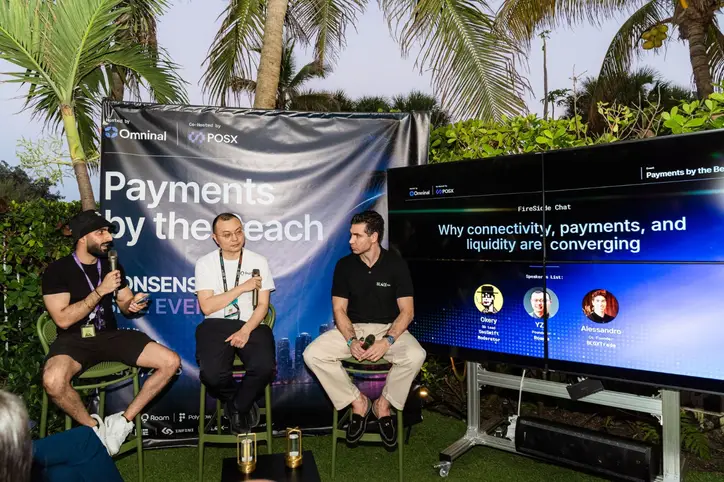
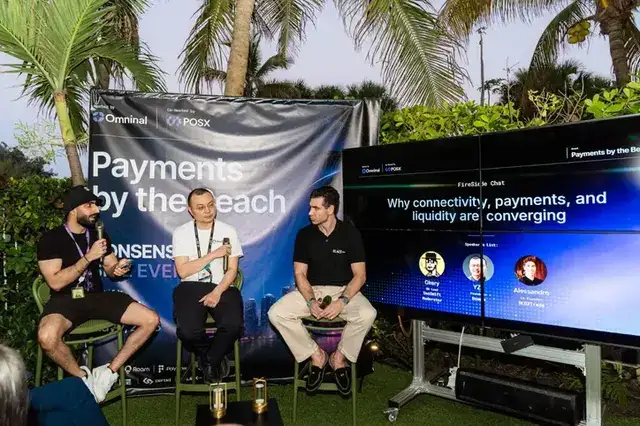
perf: resolve render-blocking CSS by inlining critical styles and compressing blog-02.webp to display size

diff --git a/news.html b/news.html
@@ -12,7 +12,96 @@
   <link rel="preload" href="./assets/fonts/Morganite-Black.ttf" as="font" type="font/ttf" crossorigin>
   <link rel="preload" href="https://fonts.googleapis.com/css2?family=Inter:wght@300;400;500;600;700&display=swap" as="style" onload="this.onload=null;this.rel='stylesheet'">
   <noscript><link rel="stylesheet" href="https://fonts.googleapis.com/css2?family=Inter:wght@300;400;500;600;700&display=swap"></noscript>
-  <link rel="stylesheet" href="./styles/main.css">
+  <style>
+    /* Critical Inline CSS */
+    @font-face {
+      font-family: 'Morganite';
+      src: url('./assets/fonts/Morganite-Black.ttf') format('truetype');
+      font-weight: 900;
+      font-style: normal;
+      font-display: swap;
+    }
+    @font-face {
+      font-family: 'Morganite';
+      src: url('./assets/fonts/Morganite-Bold.ttf') format('truetype');
+      font-weight: 700;
+      font-style: normal;
+      font-display: swap;
+    }
+    :root {
+      --color-bg-primary: #ffffff;
+      --color-bg-secondary: #f9faf9;
+      --color-bg-dark: #1B2417;
+      --color-bg-dark-elevated: #242f1f;
+      --color-text-primary: #1B2417;
+      --color-text-secondary: #4a5c43;
+      --color-text-muted: #657c5d;
+      --color-text-inverse: #ffffff;
+      --color-text-inverse-muted: #a3b89b;
+      --color-accent: #81CD4E;
+      --color-accent-hover: #61B12F;
+      --color-border: rgba(27, 36, 23, 0.08);
+      --color-border-inverse: rgba(255, 255, 255, 0.1);
+      --font-family: 'Inter', sans-serif;
+      --font-family-heading: 'Morganite', sans-serif;
+      --space-xs: 0.5rem;
+      --space-sm: 1rem;
+      --space-md: 2rem;
+      --space-lg: 4rem;
+      --space-xl: 8rem;
+      --radius-sm: 8px;
+      --radius-md: 16px;
+      --radius-lg: 24px;
+      --radius-full: 9999px;
+      --transition-fast: 0.2s cubic-bezier(0.16, 1, 0.3, 1);
+      --transition-slow: 0.6s cubic-bezier(0.16, 1, 0.3, 1);
+      --ease-out-expo: cubic-bezier(0.16, 1, 0.3, 1);
+    }
+    * { margin: 0; padding: 0; box-sizing: border-box; }
+    html { font-size: 16px; scroll-behavior: smooth; overflow-x: hidden; }
+    body { font-family: var(--font-family); color: var(--color-text-primary); background-color: var(--color-bg-primary); line-height: 1.6; -webkit-font-smoothing: antialiased; overflow-x: hidden; overflow-wrap: break-word; }
+    img, svg { max-width: 100%; display: block; }
+    a { color: inherit; text-decoration: none; }
+    .container { width: 100%; max-width: 1400px; margin: 0 auto; padding: 0 2rem; }
+    @media (max-width: 768px) { .container { padding: 0 1.5rem; } }
+    .section { padding-top: var(--space-xl); padding-bottom: var(--space-xl); position: relative; }
+    .section-dark { background-color: var(--color-bg-dark); color: var(--color-text-inverse); }
+    .h1, .h2, .h3, .h4 { font-family: var(--font-family-heading); font-weight: 900; text-transform: uppercase; letter-spacing: 0.02em; line-height: 0.9; }
+    .h1 { font-size: clamp(4.5rem, 14vw, 12rem); }
+    .h2 { font-size: clamp(3rem, 9vw, 8.5rem); }
+    .eyebrow { font-family: var(--font-family-heading); font-size: 0.75rem; font-weight: 900; text-transform: uppercase; letter-spacing: 0.1em; color: var(--color-text-muted); display: flex; align-items: center; gap: 0.75rem; margin-bottom: 2rem; }
+    .eyebrow::before { content: ''; display: block; width: 24px; height: 1px; background-color: currentColor; }
+    @media (max-width: 768px) { .eyebrow::before { display: none; } .eyebrow { justify-content: center; text-align: center; } }
+    .body-large { font-size: clamp(1.125rem, 2vw, 1.5rem); color: var(--color-text-secondary); line-height: 1.5; font-weight: 300; }
+    .section-dark .body-large, .section-dark .eyebrow { color: var(--color-text-inverse-muted); }
+    .header { position: fixed; top: 0; left: 0; width: 100%; z-index: 100; padding: 1.5rem 0; transition: background var(--transition-fast), padding var(--transition-fast); }
+    .header.scrolled { background: rgba(11, 17, 10, 0.9); backdrop-filter: blur(12px); -webkit-backdrop-filter: blur(12px); padding: 1rem 0; border-bottom: 1px solid rgba(255, 255, 255, 0.05); }
+    .header-container { display: flex; justify-content: space-between; align-items: center; }
+    .logo { display: flex; align-items: center; transition: opacity var(--transition-fast); }
+    .logo img { height: 36px; width: auto; object-fit: contain; }
+    .nav-links { display: flex; gap: 2.5rem; align-items: center; }
+    .nav-link { font-size: 0.875rem; font-weight: 500; color: rgba(255, 255, 255, 0.7); transition: color var(--transition-fast); }
+    .header-actions { display: flex; gap: 1.5rem; align-items: center; }
+    .lang-switcher { display: flex; gap: 0.5rem; font-size: 0.875rem; font-weight: 500; }
+    .lang-btn { color: rgba(255, 255, 255, 0.5); cursor: pointer; transition: color var(--transition-fast); }
+    .lang-btn.active, .lang-btn:hover { color: #ffffff; }
+    .lang-sep { color: var(--color-border-inverse); }
+    .menu-toggle { display: none; background: none; border: none; cursor: pointer; width: 24px; height: 24px; position: relative; }
+    .menu-toggle span { display: block; width: 100%; height: 2px; background: #ffffff; position: absolute; transition: all var(--transition-fast); }
+    .menu-toggle span:nth-child(1) { top: 6px; }
+    .menu-toggle span:nth-child(2) { top: 14px; }
+    .hero { padding-top: 12rem; min-height: 90vh; display: flex; align-items: center; justify-content: center; position: relative; overflow: hidden; background-color: var(--color-bg-dark); color: var(--color-text-inverse); }
+    .hero-content { position: relative; z-index: 10; max-width: 800px; display: flex; flex-direction: column; align-items: center; text-align: center; }
+    .hero .eyebrow { justify-content: center; }
+    .hero .h1 { margin-bottom: 2rem; color: #ffffff; }
+    .hero .body-large { margin-bottom: 3rem; max-width: 600px; color: #d1d6d1; }
+    .hero-ctas { display: flex; gap: 1rem; margin-bottom: 3rem; justify-content: center; }
+    .btn { display: inline-flex; align-items: center; gap: 0.75rem; padding: 1rem 2rem; font-size: 0.875rem; font-weight: 600; border-radius: var(--radius-full); transition: all var(--transition-fast); cursor: pointer; text-transform: uppercase; letter-spacing: 0.05em; }
+    .btn-secondary { background-color: var(--color-accent); color: var(--color-bg-dark); border: none; }
+    .btn-secondary:hover { background-color: var(--color-accent-hover); transform: translateY(-2px); }
+  </style>
+  <link rel="preload" href="./styles/main.css" as="style" onload="this.onload=null;this.rel='stylesheet'">
+  <noscript><link rel="stylesheet" href="./styles/main.css"></noscript>
   <style>
     /* Premium hover effects for News Cards */
     .news-card {

diff --git a/artigo.html b/artigo.html
@@ -12,7 +12,96 @@
   <link rel="preload" href="./assets/fonts/Morganite-Black.ttf" as="font" type="font/ttf" crossorigin>
   <link rel="preload" href="https://fonts.googleapis.com/css2?family=Inter:wght@300;400;500;600;700&display=swap" as="style" onload="this.onload=null;this.rel='stylesheet'">
   <noscript><link rel="stylesheet" href="https://fonts.googleapis.com/css2?family=Inter:wght@300;400;500;600;700&display=swap"></noscript>
-  <link rel="stylesheet" href="./styles/main.css">
+  <style>
+    /* Critical Inline CSS */
+    @font-face {
+      font-family: 'Morganite';
+      src: url('./assets/fonts/Morganite-Black.ttf') format('truetype');
+      font-weight: 900;
+      font-style: normal;
+      font-display: swap;
+    }
+    @font-face {
+      font-family: 'Morganite';
+      src: url('./assets/fonts/Morganite-Bold.ttf') format('truetype');
+      font-weight: 700;
+      font-style: normal;
+      font-display: swap;
+    }
+    :root {
+      --color-bg-primary: #ffffff;
+      --color-bg-secondary: #f9faf9;
+      --color-bg-dark: #1B2417;
+      --color-bg-dark-elevated: #242f1f;
+      --color-text-primary: #1B2417;
+      --color-text-secondary: #4a5c43;
+      --color-text-muted: #657c5d;
+      --color-text-inverse: #ffffff;
+      --color-text-inverse-muted: #a3b89b;
+      --color-accent: #81CD4E;
+      --color-accent-hover: #61B12F;
+      --color-border: rgba(27, 36, 23, 0.08);
+      --color-border-inverse: rgba(255, 255, 255, 0.1);
+      --font-family: 'Inter', sans-serif;
+      --font-family-heading: 'Morganite', sans-serif;
+      --space-xs: 0.5rem;
+      --space-sm: 1rem;
+      --space-md: 2rem;
+      --space-lg: 4rem;
+      --space-xl: 8rem;
+      --radius-sm: 8px;
+      --radius-md: 16px;
+      --radius-lg: 24px;
+      --radius-full: 9999px;
+      --transition-fast: 0.2s cubic-bezier(0.16, 1, 0.3, 1);
+      --transition-slow: 0.6s cubic-bezier(0.16, 1, 0.3, 1);
+      --ease-out-expo: cubic-bezier(0.16, 1, 0.3, 1);
+    }
+    * { margin: 0; padding: 0; box-sizing: border-box; }
+    html { font-size: 16px; scroll-behavior: smooth; overflow-x: hidden; }
+    body { font-family: var(--font-family); color: var(--color-text-primary); background-color: var(--color-bg-primary); line-height: 1.6; -webkit-font-smoothing: antialiased; overflow-x: hidden; overflow-wrap: break-word; }
+    img, svg { max-width: 100%; display: block; }
+    a { color: inherit; text-decoration: none; }
+    .container { width: 100%; max-width: 1400px; margin: 0 auto; padding: 0 2rem; }
+    @media (max-width: 768px) { .container { padding: 0 1.5rem; } }
+    .section { padding-top: var(--space-xl); padding-bottom: var(--space-xl); position: relative; }
+    .section-dark { background-color: var(--color-bg-dark); color: var(--color-text-inverse); }
+    .h1, .h2, .h3, .h4 { font-family: var(--font-family-heading); font-weight: 900; text-transform: uppercase; letter-spacing: 0.02em; line-height: 0.9; }
+    .h1 { font-size: clamp(4.5rem, 14vw, 12rem); }
+    .h2 { font-size: clamp(3rem, 9vw, 8.5rem); }
+    .eyebrow { font-family: var(--font-family-heading); font-size: 0.75rem; font-weight: 900; text-transform: uppercase; letter-spacing: 0.1em; color: var(--color-text-muted); display: flex; align-items: center; gap: 0.75rem; margin-bottom: 2rem; }
+    .eyebrow::before { content: ''; display: block; width: 24px; height: 1px; background-color: currentColor; }
+    @media (max-width: 768px) { .eyebrow::before { display: none; } .eyebrow { justify-content: center; text-align: center; } }
+    .body-large { font-size: clamp(1.125rem, 2vw, 1.5rem); color: var(--color-text-secondary); line-height: 1.5; font-weight: 300; }
+    .section-dark .body-large, .section-dark .eyebrow { color: var(--color-text-inverse-muted); }
+    .header { position: fixed; top: 0; left: 0; width: 100%; z-index: 100; padding: 1.5rem 0; transition: background var(--transition-fast), padding var(--transition-fast); }
+    .header.scrolled { background: rgba(11, 17, 10, 0.9); backdrop-filter: blur(12px); -webkit-backdrop-filter: blur(12px); padding: 1rem 0; border-bottom: 1px solid rgba(255, 255, 255, 0.05); }
+    .header-container { display: flex; justify-content: space-between; align-items: center; }
+    .logo { display: flex; align-items: center; transition: opacity var(--transition-fast); }
+    .logo img { height: 36px; width: auto; object-fit: contain; }
+    .nav-links { display: flex; gap: 2.5rem; align-items: center; }
+    .nav-link { font-size: 0.875rem; font-weight: 500; color: rgba(255, 255, 255, 0.7); transition: color var(--transition-fast); }
+    .header-actions { display: flex; gap: 1.5rem; align-items: center; }
+    .lang-switcher { display: flex; gap: 0.5rem; font-size: 0.875rem; font-weight: 500; }
+    .lang-btn { color: rgba(255, 255, 255, 0.5); cursor: pointer; transition: color var(--transition-fast); }
+    .lang-btn.active, .lang-btn:hover { color: #ffffff; }
+    .lang-sep { color: var(--color-border-inverse); }
+    .menu-toggle { display: none; background: none; border: none; cursor: pointer; width: 24px; height: 24px; position: relative; }
+    .menu-toggle span { display: block; width: 100%; height: 2px; background: #ffffff; position: absolute; transition: all var(--transition-fast); }
+    .menu-toggle span:nth-child(1) { top: 6px; }
+    .menu-toggle span:nth-child(2) { top: 14px; }
+    .hero { padding-top: 12rem; min-height: 90vh; display: flex; align-items: center; justify-content: center; position: relative; overflow: hidden; background-color: var(--color-bg-dark); color: var(--color-text-inverse); }
+    .hero-content { position: relative; z-index: 10; max-width: 800px; display: flex; flex-direction: column; align-items: center; text-align: center; }
+    .hero .eyebrow { justify-content: center; }
+    .hero .h1 { margin-bottom: 2rem; color: #ffffff; }
+    .hero .body-large { margin-bottom: 3rem; max-width: 600px; color: #d1d6d1; }
+    .hero-ctas { display: flex; gap: 1rem; margin-bottom: 3rem; justify-content: center; }
+    .btn { display: inline-flex; align-items: center; gap: 0.75rem; padding: 1rem 2rem; font-size: 0.875rem; font-weight: 600; border-radius: var(--radius-full); transition: all var(--transition-fast); cursor: pointer; text-transform: uppercase; letter-spacing: 0.05em; }
+    .btn-secondary { background-color: var(--color-accent); color: var(--color-bg-dark); border: none; }
+    .btn-secondary:hover { background-color: var(--color-accent-hover); transform: translateY(-2px); }
+  </style>
+  <link rel="preload" href="./styles/main.css" as="style" onload="this.onload=null;this.rel='stylesheet'">
+  <noscript><link rel="stylesheet" href="./styles/main.css"></noscript>
   <style>
     /* Article specific styles */
     .article-header {

diff --git a/index.html b/index.html
@@ -13,7 +13,96 @@
   <link rel="preload" href="./assets/images/earth-topology.webp" as="image" fetchpriority="high">
   <link rel="preload" href="https://fonts.googleapis.com/css2?family=Inter:wght@300;400;500;600;700&display=swap" as="style" onload="this.onload=null;this.rel='stylesheet'">
   <noscript><link rel="stylesheet" href="https://fonts.googleapis.com/css2?family=Inter:wght@300;400;500;600;700&display=swap"></noscript>
-  <link rel="stylesheet" href="./styles/main.css">
+  <style>
+    /* Critical Inline CSS */
+    @font-face {
+      font-family: 'Morganite';
+      src: url('./assets/fonts/Morganite-Black.ttf') format('truetype');
+      font-weight: 900;
+      font-style: normal;
+      font-display: swap;
+    }
+    @font-face {
+      font-family: 'Morganite';
+      src: url('./assets/fonts/Morganite-Bold.ttf') format('truetype');
+      font-weight: 700;
+      font-style: normal;
+      font-display: swap;
+    }
+    :root {
+      --color-bg-primary: #ffffff;
+      --color-bg-secondary: #f9faf9;
+      --color-bg-dark: #1B2417;
+      --color-bg-dark-elevated: #242f1f;
+      --color-text-primary: #1B2417;
+      --color-text-secondary: #4a5c43;
+      --color-text-muted: #657c5d;
+      --color-text-inverse: #ffffff;
+      --color-text-inverse-muted: #a3b89b;
+      --color-accent: #81CD4E;
+      --color-accent-hover: #61B12F;
+      --color-border: rgba(27, 36, 23, 0.08);
+      --color-border-inverse: rgba(255, 255, 255, 0.1);
+      --font-family: 'Inter', sans-serif;
+      --font-family-heading: 'Morganite', sans-serif;
+      --space-xs: 0.5rem;
+      --space-sm: 1rem;
+      --space-md: 2rem;
+      --space-lg: 4rem;
+      --space-xl: 8rem;
+      --radius-sm: 8px;
+      --radius-md: 16px;
+      --radius-lg: 24px;
+      --radius-full: 9999px;
+      --transition-fast: 0.2s cubic-bezier(0.16, 1, 0.3, 1);
+      --transition-slow: 0.6s cubic-bezier(0.16, 1, 0.3, 1);
+      --ease-out-expo: cubic-bezier(0.16, 1, 0.3, 1);
+    }
+    * { margin: 0; padding: 0; box-sizing: border-box; }
+    html { font-size: 16px; scroll-behavior: smooth; overflow-x: hidden; }
+    body { font-family: var(--font-family); color: var(--color-text-primary); background-color: var(--color-bg-primary); line-height: 1.6; -webkit-font-smoothing: antialiased; overflow-x: hidden; overflow-wrap: break-word; }
+    img, svg { max-width: 100%; display: block; }
+    a { color: inherit; text-decoration: none; }
+    .container { width: 100%; max-width: 1400px; margin: 0 auto; padding: 0 2rem; }
+    @media (max-width: 768px) { .container { padding: 0 1.5rem; } }
+    .section { padding-top: var(--space-xl); padding-bottom: var(--space-xl); position: relative; }
+    .section-dark { background-color: var(--color-bg-dark); color: var(--color-text-inverse); }
+    .h1, .h2, .h3, .h4 { font-family: var(--font-family-heading); font-weight: 900; text-transform: uppercase; letter-spacing: 0.02em; line-height: 0.9; }
+    .h1 { font-size: clamp(4.5rem, 14vw, 12rem); }
+    .h2 { font-size: clamp(3rem, 9vw, 8.5rem); }
+    .eyebrow { font-family: var(--font-family-heading); font-size: 0.75rem; font-weight: 900; text-transform: uppercase; letter-spacing: 0.1em; color: var(--color-text-muted); display: flex; align-items: center; gap: 0.75rem; margin-bottom: 2rem; }
+    .eyebrow::before { content: ''; display: block; width: 24px; height: 1px; background-color: currentColor; }
+    @media (max-width: 768px) { .eyebrow::before { display: none; } .eyebrow { justify-content: center; text-align: center; } }
+    .body-large { font-size: clamp(1.125rem, 2vw, 1.5rem); color: var(--color-text-secondary); line-height: 1.5; font-weight: 300; }
+    .section-dark .body-large, .section-dark .eyebrow { color: var(--color-text-inverse-muted); }
+    .header { position: fixed; top: 0; left: 0; width: 100%; z-index: 100; padding: 1.5rem 0; transition: background var(--transition-fast), padding var(--transition-fast); }
+    .header.scrolled { background: rgba(11, 17, 10, 0.9); backdrop-filter: blur(12px); -webkit-backdrop-filter: blur(12px); padding: 1rem 0; border-bottom: 1px solid rgba(255, 255, 255, 0.05); }
+    .header-container { display: flex; justify-content: space-between; align-items: center; }
+    .logo { display: flex; align-items: center; transition: opacity var(--transition-fast); }
+    .logo img { height: 36px; width: auto; object-fit: contain; }
+    .nav-links { display: flex; gap: 2.5rem; align-items: center; }
+    .nav-link { font-size: 0.875rem; font-weight: 500; color: rgba(255, 255, 255, 0.7); transition: color var(--transition-fast); }
+    .header-actions { display: flex; gap: 1.5rem; align-items: center; }
+    .lang-switcher { display: flex; gap: 0.5rem; font-size: 0.875rem; font-weight: 500; }
+    .lang-btn { color: rgba(255, 255, 255, 0.5); cursor: pointer; transition: color var(--transition-fast); }
+    .lang-btn.active, .lang-btn:hover { color: #ffffff; }
+    .lang-sep { color: var(--color-border-inverse); }
+    .menu-toggle { display: none; background: none; border: none; cursor: pointer; width: 24px; height: 24px; position: relative; }
+    .menu-toggle span { display: block; width: 100%; height: 2px; background: #ffffff; position: absolute; transition: all var(--transition-fast); }
+    .menu-toggle span:nth-child(1) { top: 6px; }
+    .menu-toggle span:nth-child(2) { top: 14px; }
+    .hero { padding-top: 12rem; min-height: 90vh; display: flex; align-items: center; justify-content: center; position: relative; overflow: hidden; background-color: var(--color-bg-dark); color: var(--color-text-inverse); }
+    .hero-content { position: relative; z-index: 10; max-width: 800px; display: flex; flex-direction: column; align-items: center; text-align: center; }
+    .hero .eyebrow { justify-content: center; }
+    .hero .h1 { margin-bottom: 2rem; color: #ffffff; }
+    .hero .body-large { margin-bottom: 3rem; max-width: 600px; color: #d1d6d1; }
+    .hero-ctas { display: flex; gap: 1rem; margin-bottom: 3rem; justify-content: center; }
+    .btn { display: inline-flex; align-items: center; gap: 0.75rem; padding: 1rem 2rem; font-size: 0.875rem; font-weight: 600; border-radius: var(--radius-full); transition: all var(--transition-fast); cursor: pointer; text-transform: uppercase; letter-spacing: 0.05em; }
+    .btn-secondary { background-color: var(--color-accent); color: var(--color-bg-dark); border: none; }
+    .btn-secondary:hover { background-color: var(--color-accent-hover); transform: translateY(-2px); }
+  </style>
+  <link rel="preload" href="./styles/main.css" as="style" onload="this.onload=null;this.rel='stylesheet'">
+  <noscript><link rel="stylesheet" href="./styles/main.css"></noscript>
 </head>
 <body>
 
